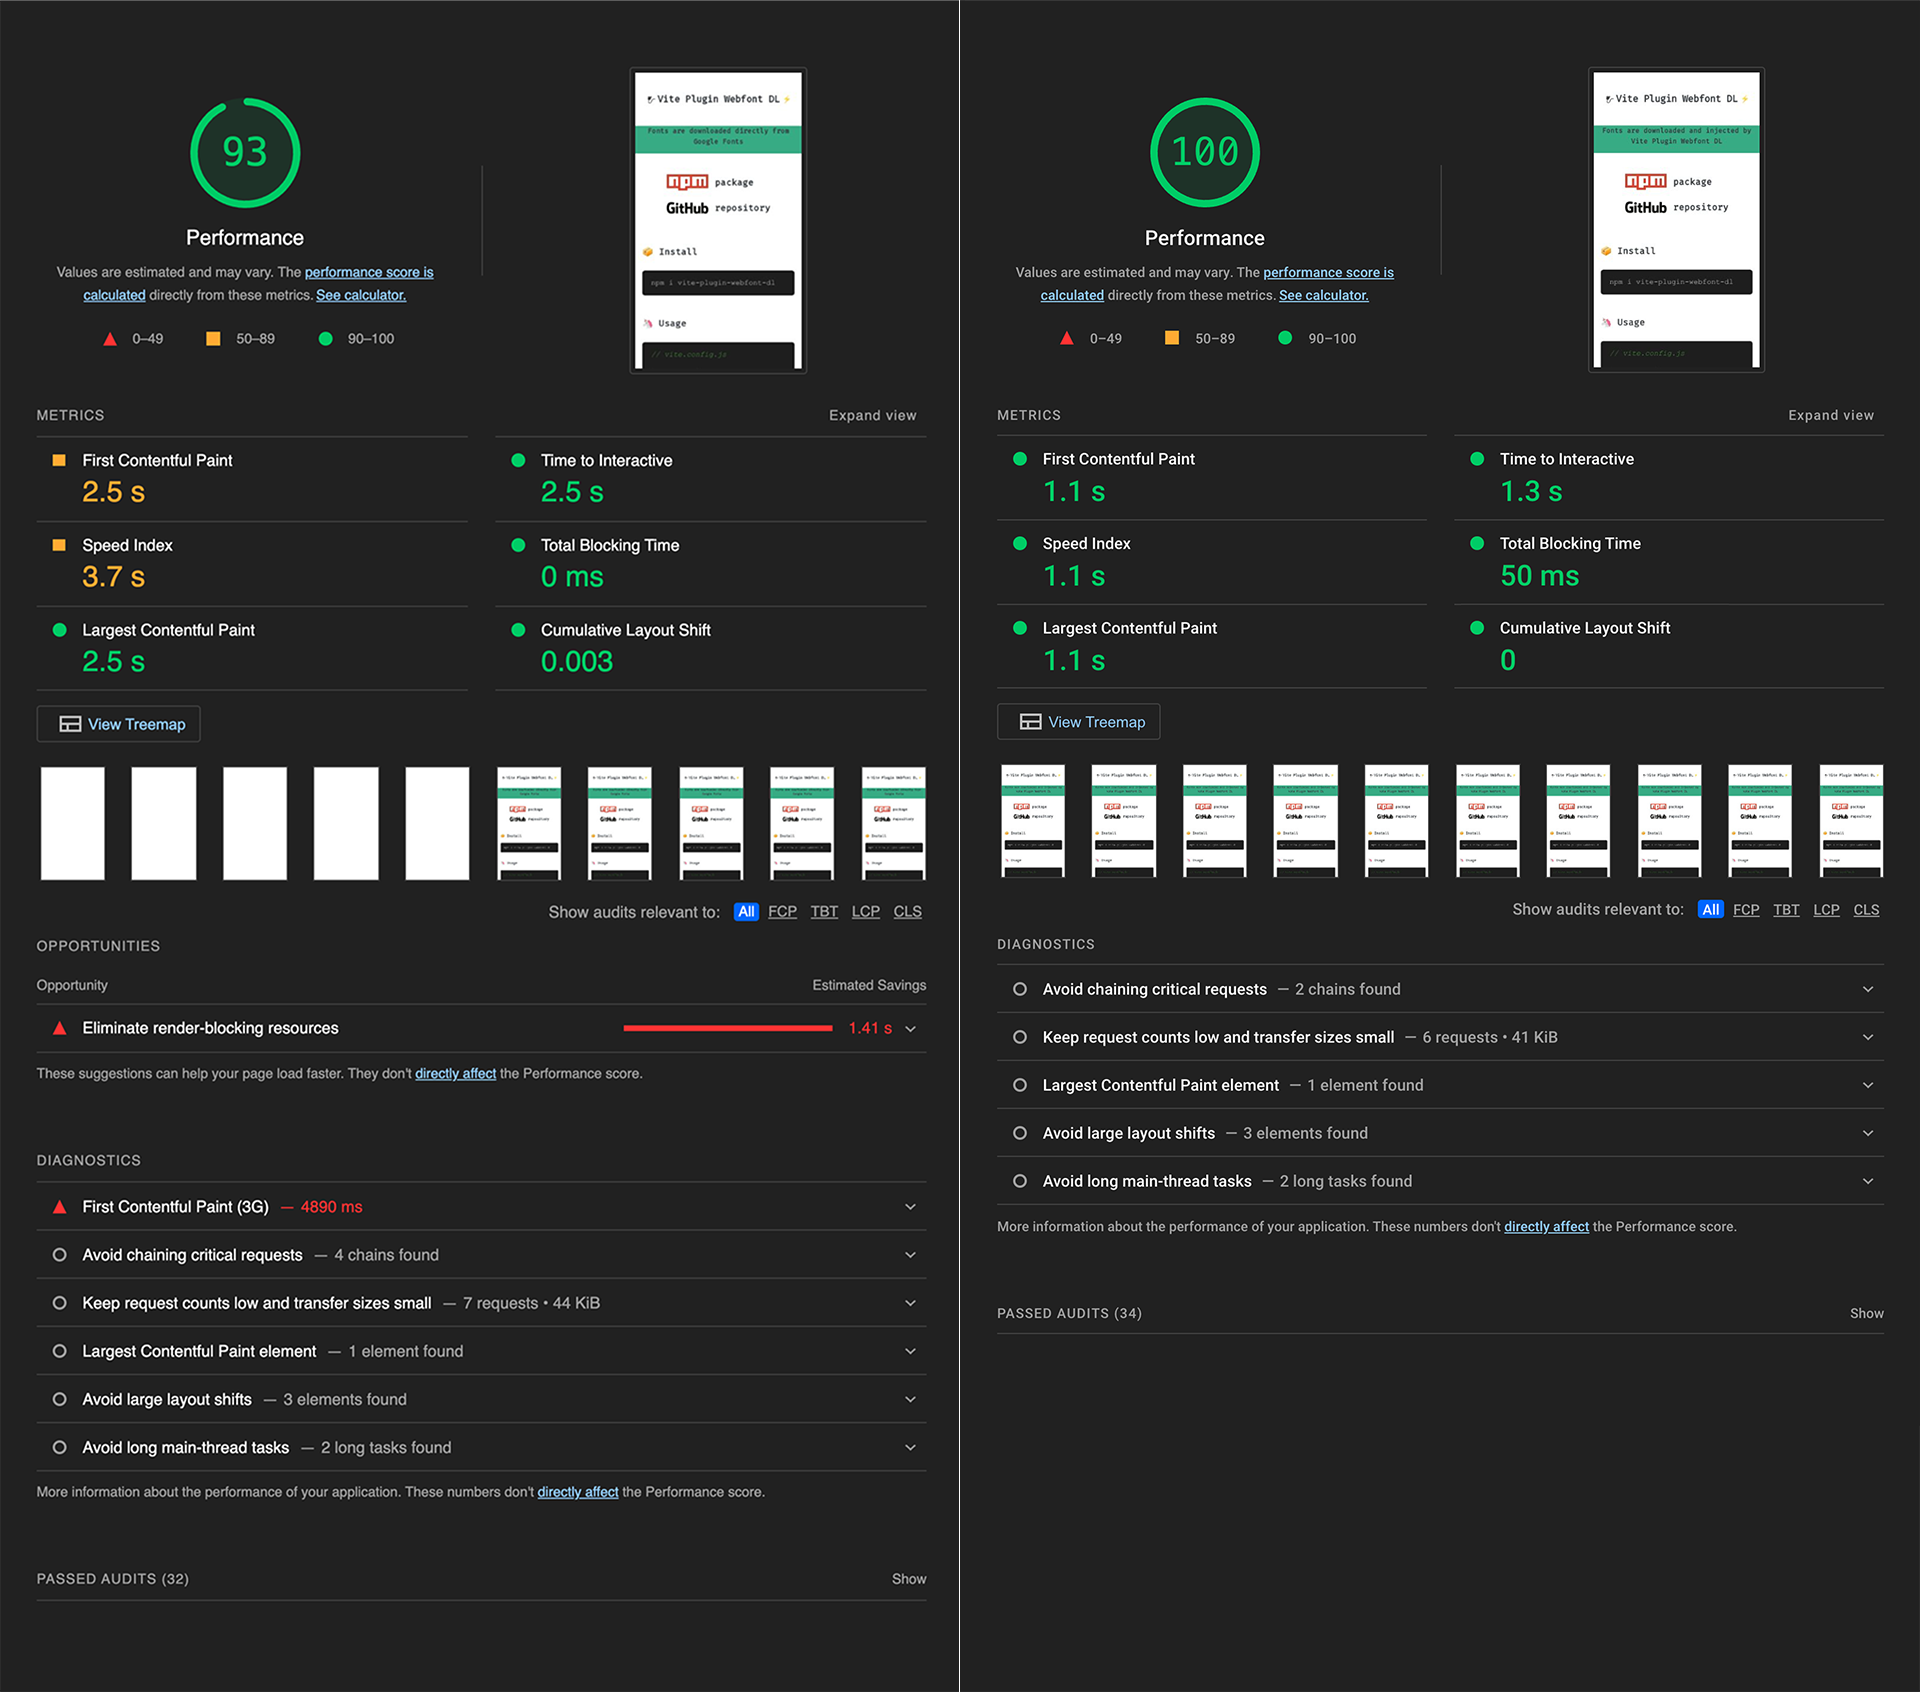
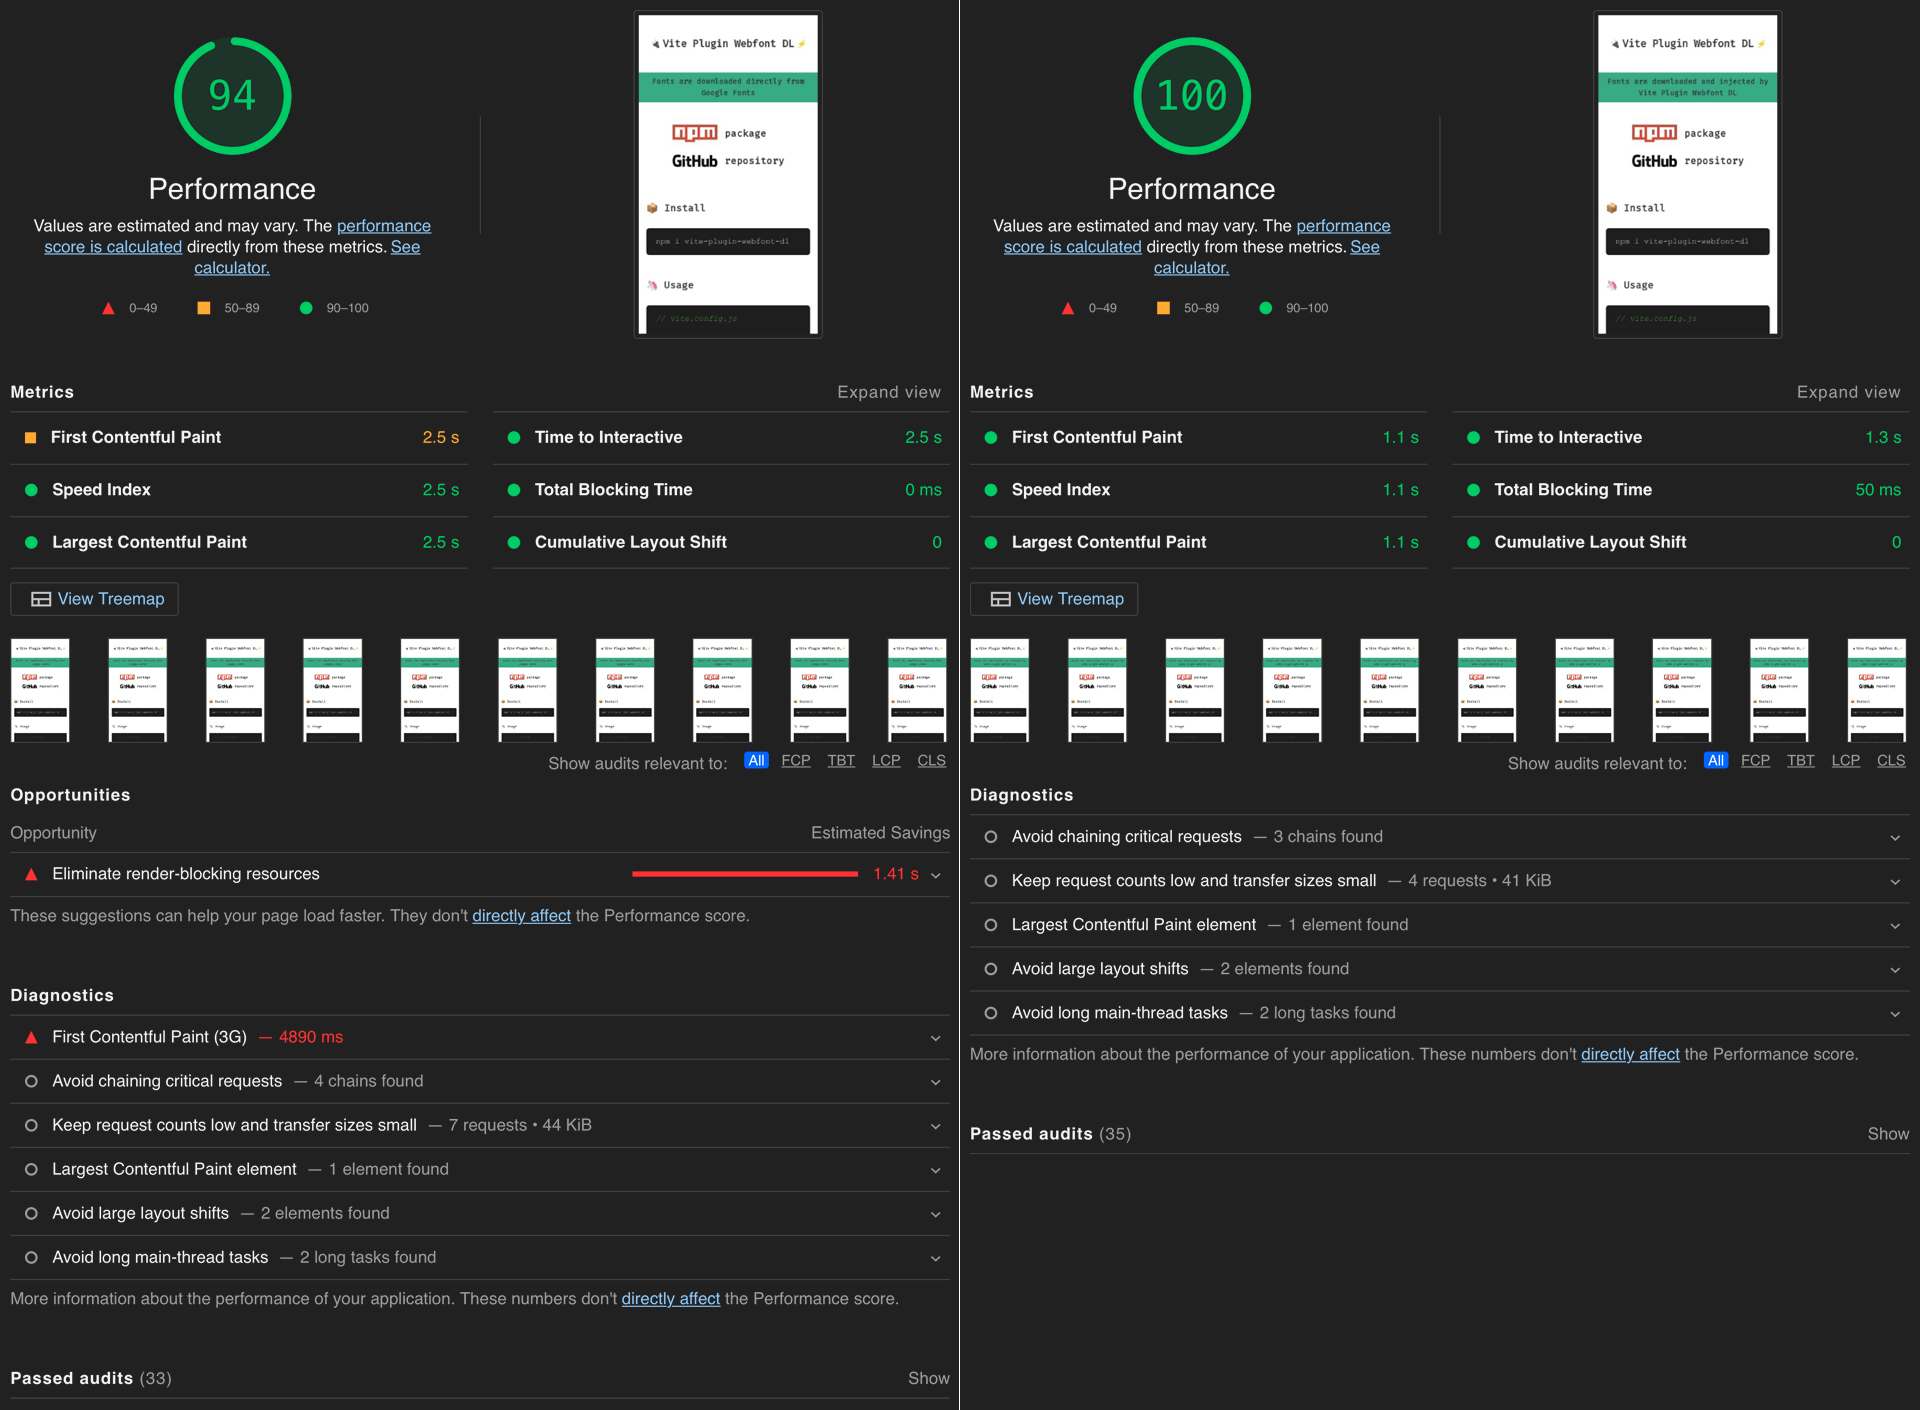
benchmark update

diff --git a/readme.md b/readme.md
@@ -183,7 +183,7 @@ ViteWebfontDownload(
 ## 📈 Benchmark
 [Starter Vite project](https://github.com/vitejs/vite/tree/main/packages/create-vite/template-vanilla) with
 
-| [▶ Standard **Google Fonts**](https://pagespeed.web.dev/report?url=https%3A%2F%2Fwebfont.feat.agency%2F) | 🆚 | [▶ **Webfont DL** Vite plugin](https://pagespeed.web.dev/report?url=https%3A%2F%2Fwebfont-dl.feat.agency%2F) |
+| [▶ Standard **Google Fonts**](https://web.dev/measure/?url=https%3A%2F%2Fwebfont.feat.agency%2F) | 🆚 | [▶ **Webfont DL** Vite plugin](https://web.dev/measure/?url=https%3A%2F%2Fwebfont-dl.feat.agency%2F) |
 |:---:|:---:|:---:|
 | [🔗 webfont.feat.agency](https://webfont.feat.agency) | | [🔗 webfont-dl.feat.agency](https://webfont-dl.feat.agency) |
 
